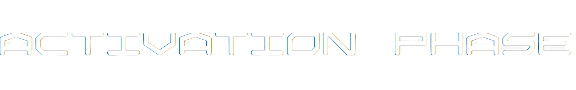
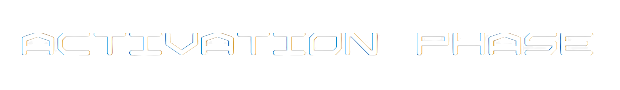
small changes GUI

Changed region(s): [[0.0, 0.3556, 0.625, 0.6222], [0.6562, 0.3556, 1.0, 0.6222]]

diff --git a/src/main/java/client/gameWindow/GameViewModel.java b/src/main/java/client/gameWindow/GameViewModel.java
@@ -95,6 +95,8 @@ public class GameViewModel {
 
     @FXML
     private ImageView image1;
+    @FXML
+    private ImageView  roboRallyImage;
 
 
     /**
@@ -426,9 +428,11 @@ public class GameViewModel {
     public void chatBtnAction(ActionEvent actionEvent) {
         if (container.isVisible()) {
             container.setVisible(false);
+            roboRallyImage.setVisible(true);
             chatBtn.setText("OPEN CHAT");
         } else {
             container.setVisible(true);
+            roboRallyImage.setVisible(false);
             chatBtn.setText("CLOSE CHAT");
         }
     }
@@ -1119,6 +1123,7 @@ public class GameViewModel {
 
         //phaseView.setVisible(true);
         Text.setText("Select a starting point");
+        roboRallyImage.setVisible(false);
         selectStartingPoint.setVisible(true);
         printMapButton.setVisible(false);
         setYourBotIcon();
